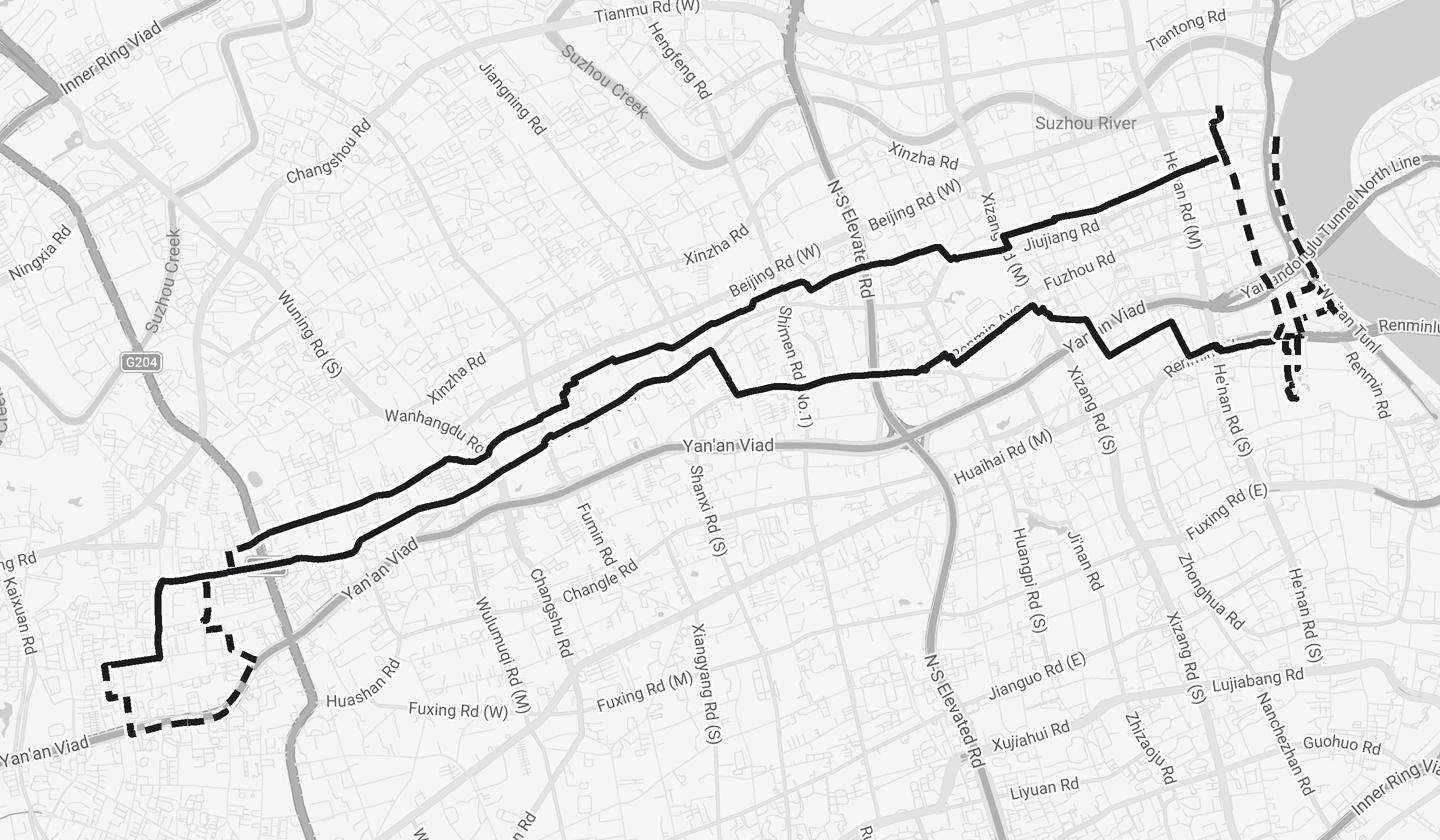
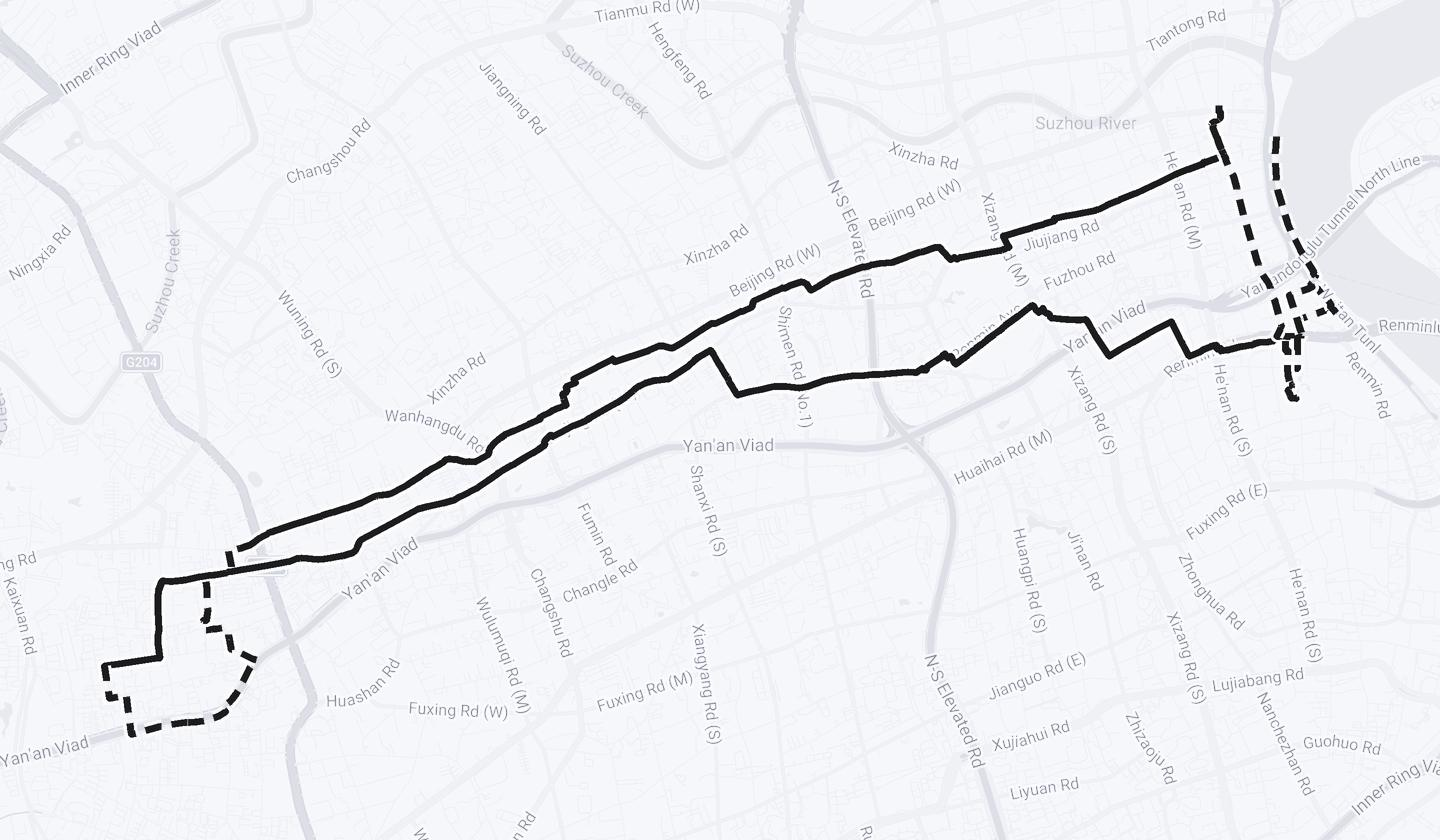
일정 아이콘 원형(지도 핀과 같은 카테고리 색)·시간 밑 가운데, 구분선 시간까지, 날짜 제목 앞 Day N., 지도 쿨그레이 톤·얇은 테두리

diff --git a/app.js b/app.js
@@ -115,12 +115,12 @@
     const nowCls = i === nowI ? ' is-now' : '';
     const inner = `<span class="row-lead"><span class="row-time">${esc(it.t)}</span>${icon(cat)}</span><span class="row-main"><span class="row-title" style="display:block">${pn}${esc(title)}${it.warn ? ' <span style="color:var(--warn)" aria-label="주의">•</span>' : ''}</span>${zh ? `<span class="row-zh" lang="zh-CN" style="display:block">${esc(zh)}</span>` : ''}${it.note ? `<span class="row-note" style="display:block">${esc(it.note)}</span>` : ''}</span>`;
     const rid = ` id="r${dIdx}-${i}"`;
-    if (!hasDetail) return `<div class="row${nowCls}"${rid} style="--inset:74px">${inner}</div>`;
+    if (!hasDetail) return `<div class="row${nowCls}"${rid} style="--inset:16px">${inner}</div>`;
     if (open) {
       // 전체 보기: 버튼이 아닌 일반 블록이라 글자 선택·복사가 됨
-      return `<div class="row${nowCls}"${rid} style="--inset:74px">${inner}</div><div class="detail is-open"><div class="detail-inner"><div class="detail-pad">${detailHtml(it, p)}</div></div></div>`;
+      return `<div class="row${nowCls}"${rid} style="--inset:16px">${inner}</div><div class="detail is-open"><div class="detail-inner"><div class="detail-pad">${detailHtml(it, p)}</div></div></div>`;
     }
-    return `<button class="row${nowCls}"${rid} style="--inset:74px" aria-expanded="false" aria-controls="${id}" data-toggle="${id}">${inner}${CHEV}</button><div class="detail" id="${id}"><div class="detail-inner"><div class="detail-pad">${detailHtml(it, p)}</div></div></div>`;
+    return `<button class="row${nowCls}"${rid} style="--inset:16px" aria-expanded="false" aria-controls="${id}" data-toggle="${id}">${inner}${CHEV}</button><div class="detail" id="${id}"><div class="detail-inner"><div class="detail-pad">${detailHtml(it, p)}</div></div></div>`;
   }
 
   /* ---------- 날짜별 동선 지도 (tools/build_maps.py 가 만든 이미지 + 핀) ---------- */
@@ -347,13 +347,13 @@
       h += `<p class="group-f" style="margin:0 4px 6px">모든 일정이 펼쳐져 있어요. 길게 눌러 글자를 선택하고 복사할 수 있어요.</p>`;
       DAYS.forEach((d, dIdx) => {
         const nowI = dIdx === todayIdx ? d.items.reduce((acc, it, i) => (/^\d/.test(it.t) && it.t <= now.hm ? i : acc), -1) : -1;
-        h += `<div class="day-head" style="margin-top:26px"><h2>${Number(d.date.slice(5, 7))}/${Number(d.date.slice(8))}(${esc(d.w)}) ${esc(d.title)}</h2>${d.sub ? `<p>${esc(d.sub)}</p>` : ''}</div><div data-wx="${d.date}"></div>`;
+        h += `<div class="day-head" style="margin-top:26px"><h2><span class="day-no">Day ${dIdx + 1}.</span> ${Number(d.date.slice(5, 7))}/${Number(d.date.slice(8))}(${esc(d.w)}) ${esc(d.title)}</h2>${d.sub ? `<p>${esc(d.sub)}</p>` : ''}</div><div data-wx="${d.date}"></div>`;
         h += `<div class="list selectable">${d.items.map((it, i) => itemHtml(it, i, dIdx, nowI, true)).join('')}</div>`;
         if (d.foot) h += `<p class="group-f">${esc(d.foot)}</p>`;
       });
     } else {
       const d = DAYS[dayIdx];
-      h += `<div class="day-head"><h2>${esc(d.title)}</h2>${d.sub ? `<p>${esc(d.sub)}</p>` : ''}</div>`;
+      h += `<div class="day-head"><h2><span class="day-no">Day ${dayIdx + 1}.</span> ${esc(d.title)}</h2>${d.sub ? `<p>${esc(d.sub)}</p>` : ''}</div>`;
       h += mapHtml(dayIdx);
       const nowI = dayIdx === todayIdx ? d.items.reduce((acc, it, i) => (/^\d/.test(it.t) && it.t <= now.hm ? i : acc), -1) : -1;
       const nums = pinNums(dayIdx);

diff --git a/styles.css b/styles.css
@@ -482,7 +482,7 @@ main { padding-top: calc(18px + env(safe-area-inset-top)); }
 
 /* ---------- 날짜별 동선 지도 ---------- */
 .dmap { margin: 0 0 14px; }
-.dmap-box { position: relative; overflow: hidden; border-radius: 10px; background: var(--card); touch-action: pan-y; user-select: none; -webkit-user-select: none; -webkit-touch-callout: none; }
+.dmap-box { position: relative; overflow: hidden; border-radius: 10px; background: var(--card); isolation: isolate; touch-action: pan-y; user-select: none; -webkit-user-select: none; -webkit-touch-callout: none; }
 .dmap-box.is-zoomed { touch-action: none; }
 .dmap-layer { position: absolute; inset: 0; transform-origin: 0 0; --k: 1; }
 .dmap-layer img { display: block; width: 100%; height: 100%; pointer-events: none; }
@@ -549,6 +549,13 @@ main { padding-top: calc(18px + env(safe-area-inset-top)); }
 .dmap-me::after { content: ""; position: absolute; inset: -2.5px; border-radius: 50%; background: #1A73E8; border: 2.5px solid #fff; } /* 점이 부채꼴 위로 */
 
 /* 일정 줄: 아이콘을 시간 밑으로 → 제목·설명 폭 넓게 */
-.row-lead { flex: none; width: 46px; display: flex; flex-direction: column; align-items: flex-start; gap: 7px; }
-.row-lead .row-time { width: auto; }
-.row-lead .ico { margin-top: 0; }
+.row-lead { flex: none; width: 46px; display: flex; flex-direction: column; align-items: center; gap: 6px; }
+.row-lead .row-time { width: auto; text-align: center; }
+/* 일정 아이콘 = 지도 핀과 같은 카테고리 색 원 */
+.row-lead .ico { width: 26px; height: 26px; border-radius: 50%; margin-top: 0; }
+.row-lead .ico .ms { font-size: 15px; }
+
+/* 지도 테두리: 배경과 구분되는 얇은 선 */
+.dmap-box::after { content: ""; position: absolute; inset: 0; border-radius: inherit; border: .5px solid rgba(60,60,67,.22); pointer-events: none; z-index: 3; }
+@media (prefers-color-scheme: dark) { :root:not([data-theme="light"]) .dmap-box::after { border-color: rgba(235,235,245,.16); } }
+:root[data-theme="dark"] .dmap-box::after { border-color: rgba(235,235,245,.16); }

diff --git a/sw.js b/sw.js
@@ -1,5 +1,5 @@
 // 오프라인용: 네트워크 우선, 실패하면 캐시. 데이터 수정이 바로 반영되도록.
-const CACHE = 'sh26-v14';
+const CACHE = 'sh26-v15';
 const ASSETS = ['./', 'index.html', 'styles.css', 'app.js', 'data.js', 'maps.js', 'img/map-day1.jpg', 'img/map-day2.jpg', 'img/map-day3.jpg', 'img/map-disney.jpg', 'gaode.html', 'favicon.png', 'mascot.png', 'manifest.webmanifest'];
 self.addEventListener('install', (e) => { e.waitUntil(caches.open(CACHE).then((c) => c.addAll(ASSETS)).then(() => self.skipWaiting())); });
 self.addEventListener('activate', (e) => { e.waitUntil(caches.keys().then((ks) => Promise.all(ks.filter((k) => k !== CACHE).map((k) => caches.delete(k)))).then(() => self.clients.claim())); });

diff --git a/tools/build_maps.py b/tools/build_maps.py
@@ -159,8 +159,10 @@ def render(points, legs, out, pad=PAD, padx=None):
             base.paste(tile(tx, ty, z), (int((tx*256-left)*TS), int((ty*256-top)*TS)))
     img = base.resize((W*S, h*S), Image.LANCZOS)
     # 모노톤: 흑백으로 바꾸고 살짝 밝게 → 빨간 동선만 눈에 띄게
+    # 앱 회색(iOS 쿨그레이 #3C3C43 계열)으로 물들이고 밝게: 페이지 배경(#F2F2F7)보다 밝아 지도 영역이 떠 보이게
     g = ImageOps.grayscale(img)
-    img = Image.blend(g.convert('RGB'), Image.new('RGB', g.size, (255, 255, 255)), 0.18)
+    img = ImageOps.colorize(g, black=(56, 59, 70), white=(251, 252, 255), mid=(201, 204, 215))
+    img = Image.blend(img, Image.new('RGB', g.size, (250, 251, 255)), 0.22)
     SS = S*2   # 경로는 2배로 그려 줄여서 매끈하게
     ov = Image.new('RGBA', (W*SS, h*SS), (0, 0, 0, 0)); dr = ImageDraw.Draw(ov)
     def px(p):
